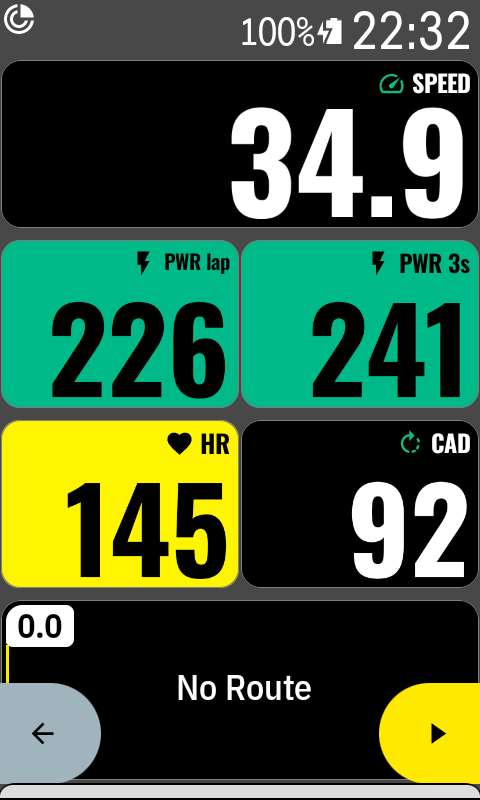
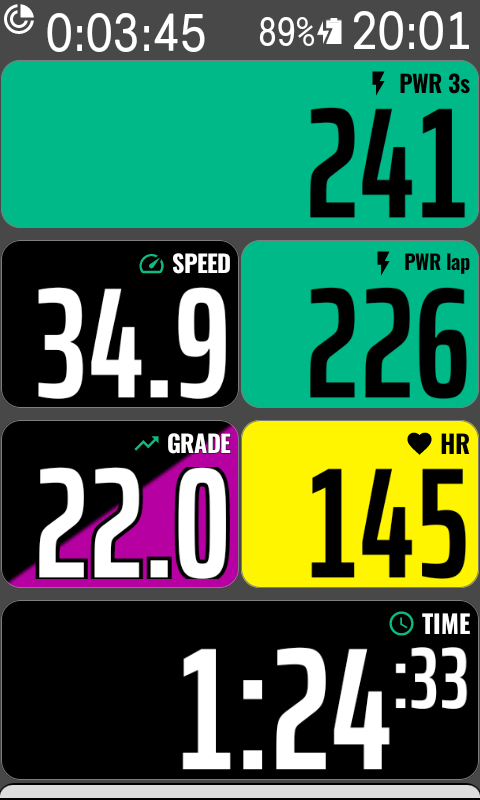
chore(release): 1.1.0
Covers both features on this branch: the grade wedge and the font setting.

Screenshots are reshot on the device in all three zone colouring modes, so
they show Saira and the wedge rather than the 1.0.1 rendering. The caption
follows the page they were taken on -- SPEED, GRADE and TIME are the fields
without zones now, not SPEED and CAD -- and says that GRADE sits at 22% to put
the wedge at full height, which a real road does not.

The settings screen gaining a ScrollView is deliberately not in the changelog:
that only stopped fitting while this release was being built, so a rider
upgrading from 1.0.1 never met it. Development history, not a release note.

manifest.json moves with it, since the changelog asks the two to agree.

Claude-Session: https://claude.ai/code/session_0142tqkb3eEG9sx2Pt6EGNCy

diff --git a/CHANGELOG.md b/CHANGELOG.md
@@ -8,6 +8,37 @@ Karoo shows in its own update flow.
 
 ## [Unreleased]
 
+## [1.1.0] - 2026-08-25
+
+### Added
+
+- **Font setting.** Numbers are now set in **Saira** by default, with a **Width** (50-124%) and
+  **Weight** (100-900) to go with it; **Oswald Bold** is still there for anyone who preferred it.
+  Saira's digits are all the same width, so a value no longer shifts sideways as its digits
+  change; measured against Oswald over same-length values, that shift reaches 35-45px in the
+  widest field. Narrow digits also make the number *taller*: most fields run out of width before
+  they run out of height, so at the default width the digits gain roughly 14% on a half-width
+  field and a third on **Time - Elapsed** and **Climb - VAM**. Field labels stay in Oswald
+  whatever the number is set to, since at 11dp a condensed face loses the space between a label's
+  words.
+- **Climb - Grade** draws the slope as a coloured wedge behind the number. Its direction follows
+  the sign -- rising for a climb, falling for a descent -- and its height and colour follow the
+  size, over the same seven bands as the Karoo's own Climber scale, with thresholds at
+  2 / 5 / 8 / 11 / 14 / 20%. At 20% the wedge runs corner to corner. Because the wedge cuts
+  diagonally across the number, the number and label take a thin contrasting outline rather than
+  flipping colour wholesale, which no single threshold could get right.
+- Turning zone colouring off now turns the grade wedge off too, on the reading that a rider who
+  wants no colour means everywhere.
+
+### Notes
+
+- Saira is bundled as the variable `Saira[wdth,wght].ttf` from Google Fonts, subset to Latin so
+  the two axes survive without carrying glyphs no field draws. Both it and Oswald are licensed
+  under the SIL Open Font License 1.1; see [OFL.txt](OFL.txt).
+- A non-finite grade takes the lowest band and the floor wedge height rather than the loudest
+  colour and an undefined path.
+- Fields other than Grade render exactly as before when no wedge is present.
+
 ## [1.0.1] - 2026-08-24
 
 ### Added
@@ -54,6 +85,7 @@ First public release.
 - The rounded card behind each field is drawn by Karoo. On a ride page it does not clip the
   extension's view to that card, so the fill rounds its own corners to match.
 
-[Unreleased]: https://github.com/smartycoder/karoo-bignum/compare/v1.0.1...HEAD
+[Unreleased]: https://github.com/smartycoder/karoo-bignum/compare/v1.1.0...HEAD
+[1.1.0]: https://github.com/smartycoder/karoo-bignum/releases/tag/v1.1.0
 [1.0.1]: https://github.com/smartycoder/karoo-bignum/releases/tag/v1.0.1
 [1.0.0]: https://github.com/smartycoder/karoo-bignum/releases/tag/v1.0.0

diff --git a/README.md b/README.md
@@ -1,9 +1,19 @@
 # karoo-bignum
 
-Large, bold numeric data fields for the Hammerhead Karoo, rendered in **Oswald Bold** so the
-number fills the field instead of floating in the middle of it. 41 fields covering speed, heart
-rate, power, cadence, climbing and time, with optional heart-rate and power zone coloring driven
-by your Karoo `UserProfile`.
+Large, bold numeric data fields for the Hammerhead Karoo, drawn so the number fills the field
+instead of floating in the middle of it. 41 fields covering speed, heart rate, power, cadence,
+climbing and time, with optional heart-rate and power zone coloring driven by your Karoo
+`UserProfile`.
+
+Numbers are set in **Saira** by default, with equal-width digits so a value does not shift
+sideways as its digits change, and an adjustable width and weight — narrower digits make the
+number taller, because most fields run out of width before they run out of height. **Oswald
+Bold** remains available in the app's settings, and field labels are set in it whichever number
+font you pick.
+
+**Climb - Grade** draws the slope as a coloured wedge behind the number, rising for a climb and
+falling for a descent, using the same seven colour bands the Karoo's own Climber scale does. The
+wedge reaches corner to corner at 20%.
 
 Built on Hammerhead's [karoo-ext](https://github.com/hammerheadnav/karoo-ext) SDK.
 
@@ -15,7 +25,8 @@ The same page in each of the three zone coloring modes.
 |---|---|---|
 | ![Zone coloring off](docs/screenshots/zones-off.png) | ![Zone color on the number](docs/screenshots/zones-number.png) | ![Zone color filling the field](docs/screenshots/zones-fill.png) |
 
-`SPEED` and `CAD` have no zones, so they stay in the normal text color in every mode.
+`SPEED`, `GRADE` and `TIME` have no zones, so they stay in the normal text color in every mode.
+`GRADE` is showing 22% here to put its wedge at full height; a real road puts it lower.
 
 ## Fields
 
@@ -141,5 +152,7 @@ BigNum is free and open source. If it earns its place on your bars:
 
 Apache-2.0 — see [LICENSE](LICENSE).
 
-Oswald is licensed under the SIL Open Font License 1.1, © Vernon Adams et al. —
-see [OFL.txt](OFL.txt).
+Oswald (© Vernon Adams et al.) and Saira (© Omnibus-Type) are both licensed under the SIL Open
+Font License 1.1 — see [OFL.txt](OFL.txt). Saira is bundled as the variable
+`Saira[wdth,wght].ttf` from Google Fonts, subset to Latin so the axes survive but the file does
+not carry glyphs no field ever draws.
